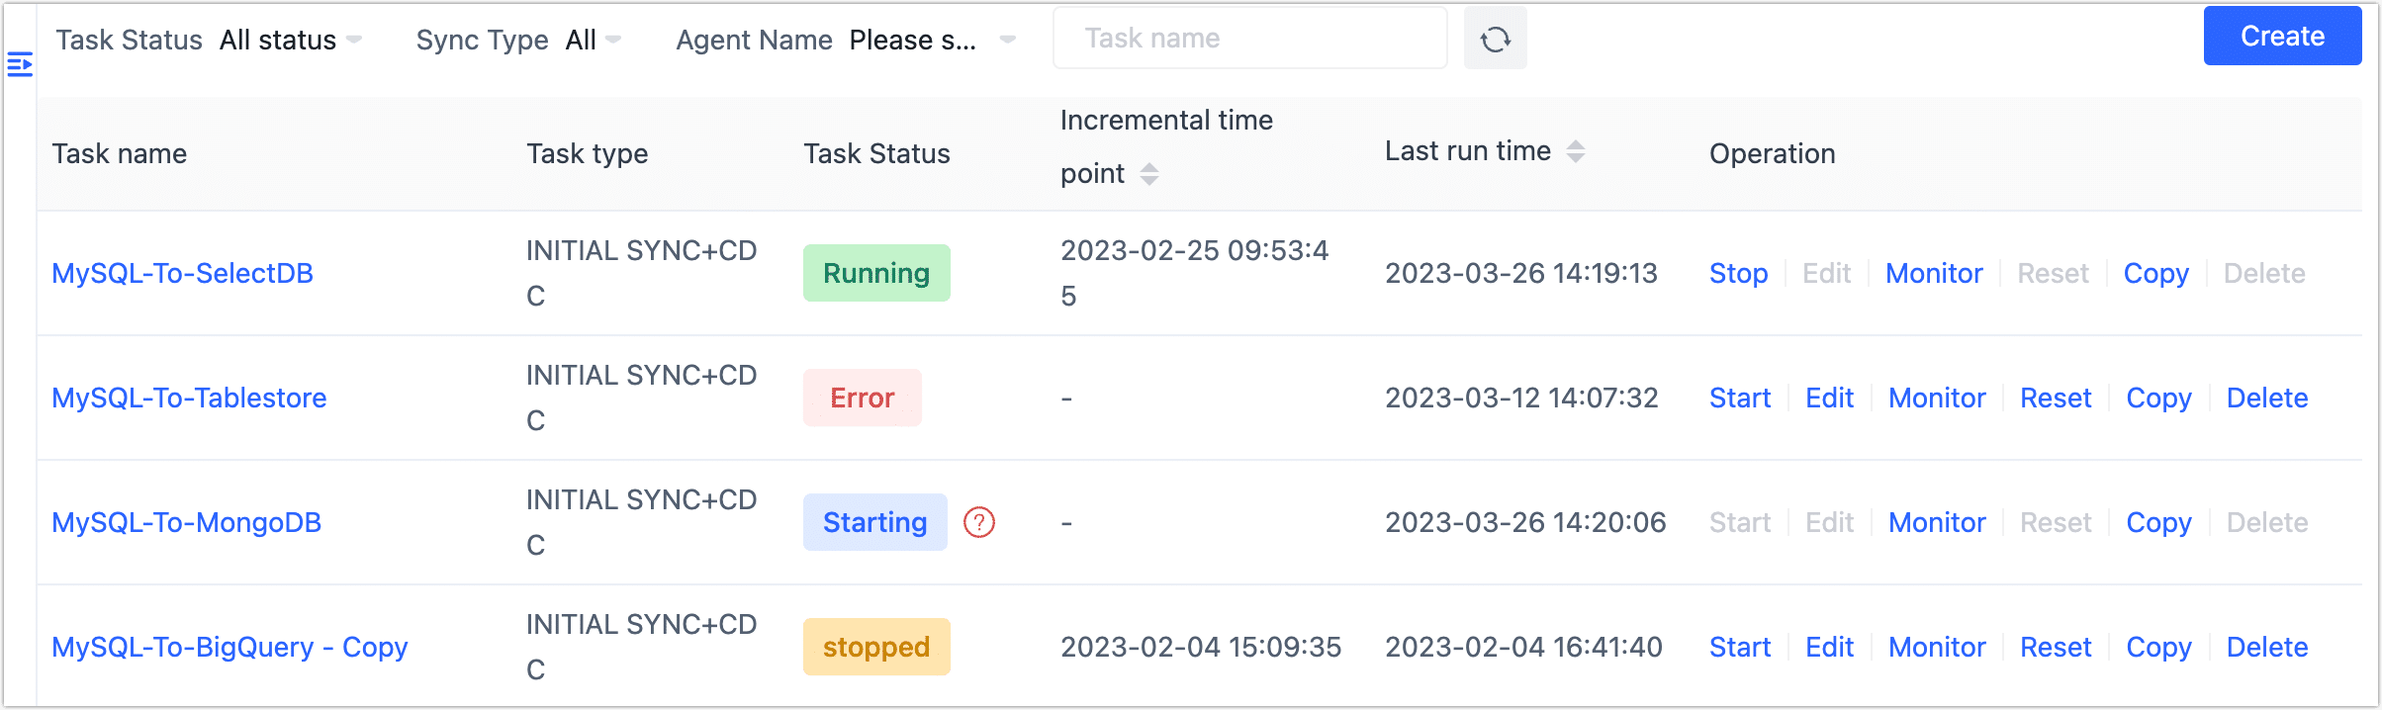
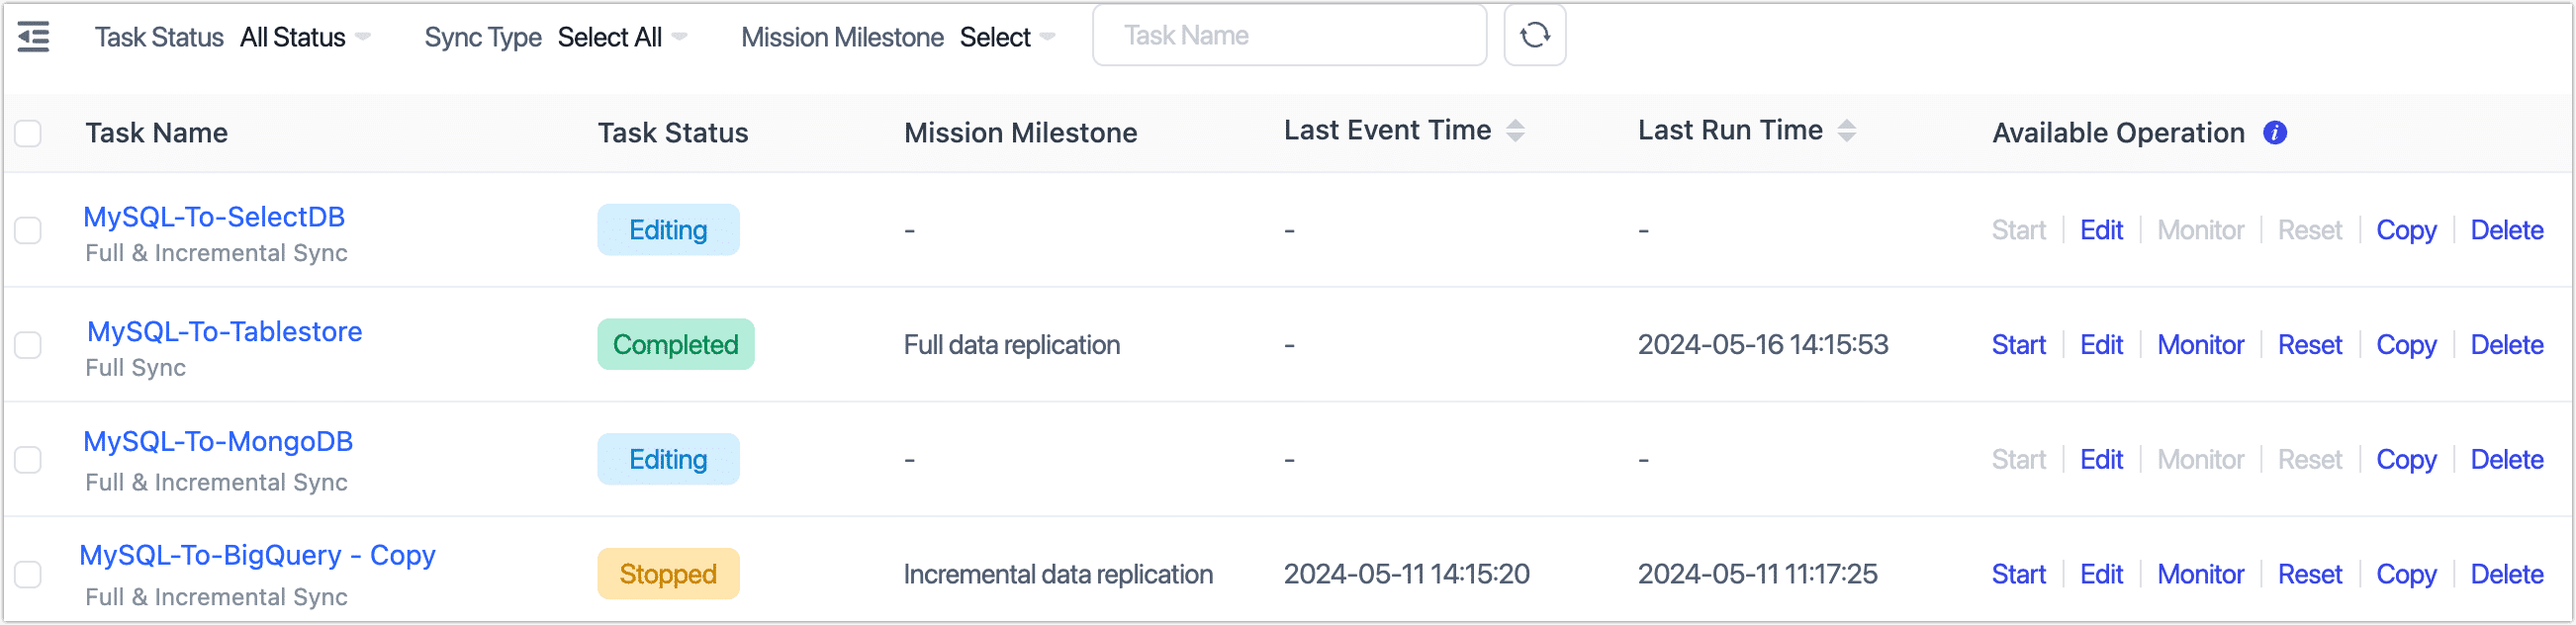
Release 2024-05-06

diff --git a/docs/release-notes/release-notes-cloud.md b/docs/release-notes/release-notes-cloud.md
@@ -6,6 +6,26 @@ import Content from '../reuse-content/_cloud-features.md';
 
 To enhance the user experience, Tapdata Cloud continuously enriches and optimizes product features and rectifies known defects by releasing new versions. This article provides an update log for Tapdata Cloud, helping you grasp the new feature specifications more effectively.
 
+### 2024-05-06
+
+#### New Features
+
+* Support for bidirectional data synchronization between MySQL instances and between PostgreSQL instances, better meeting the needs of active-active and disaster recovery scenarios.
+* Support for importing files from [MongoDB Relmig](https://www.mongodb.com/docs/relational-migrator/) version 1.3.0 and above, further enhancing ecosystem integration capabilities.
+* Support for synchronizing MongoDB [Oplog](https://www.mongodb.com/docs/manual/core/replica-set-oplog/) (operation log) data.
+* Support for filtering the time field of tables in the source node’s **[Advanced Settings](../user-guide/data-pipeline/data-development/create-task#full-sql-query)** when configuring data transformation tasks (e.g., relative dates).
+* Display milestone information for tasks on the [Task List](../user-guide/data-pipeline/copy-data/manage-task.md) page, helping users quickly understand key progress statuses.
+
+#### Enhancements
+
+* Improved [Unwind Node](../user-guide/data-pipeline/data-development/process-node#unwind) functionality, allowing users to set expansion modes, such as **Embedded Objects** or **Flatten Fields**.
+* Enhanced full synchronization detail page display, supporting quick table name filtering.
+
+#### Bug Fixes
+
+* Fixed an issue where adjusting alarm settings could affect normal task operations in certain scenarios.
+* Fixed an issue where adding a new digging table caused the task to display digging task errors.
+
 ### 2024-04-26
 
 #### New Features

diff --git a/docs/release-notes/release-notes-on-prem.md b/docs/release-notes/release-notes-on-prem.md
@@ -4,6 +4,28 @@ import Content from '../reuse-content/_enterprise-features.md';
 
 <Content />
 
+## 3.5.16
+
+### New Features
+
+* Support for bidirectional data synchronization between MySQL instances and between PostgreSQL instances, better meeting the needs of active-active and disaster recovery scenarios.
+* Support for importing files from [MongoDB Relmig](https://www.mongodb.com/docs/relational-migrator/) version 1.3.0 and above, further enhancing ecosystem integration capabilities.
+* Support for synchronizing MongoDB [Oplog](https://www.mongodb.com/docs/manual/core/replica-set-oplog/) (operation log) data.
+* Support for filtering the time field of tables in the source node’s **[Advanced Settings](../user-guide/data-pipeline/data-development/create-task#full-sql-query)** when configuring data transformation tasks (e.g., relative dates).
+* Display milestone information for tasks on the [Task List](../user-guide/data-pipeline/copy-data/manage-task.md) page, helping users quickly understand key progress statuses.
+
+### Enhancements
+
+* Improved [Unwind Node](../user-guide/data-pipeline/data-development/process-node#unwind) functionality, allowing users to set expansion modes, such as **Embedded Objects** or **Flatten Fields**.
+* Enhanced full synchronization detail page display, supporting quick table name filtering.
+
+### Bug Fixes
+
+* Fixed an issue where adjusting alarm settings could affect normal task operations in certain scenarios.
+* Fixed an issue where adding a new digging table caused the task to display digging task errors.
+
+* Fixed an issue where tasks would still retrieve data from deleted shared cache tasks after being restarted.
+
 ## 3.5.15
 
 ### New Features
